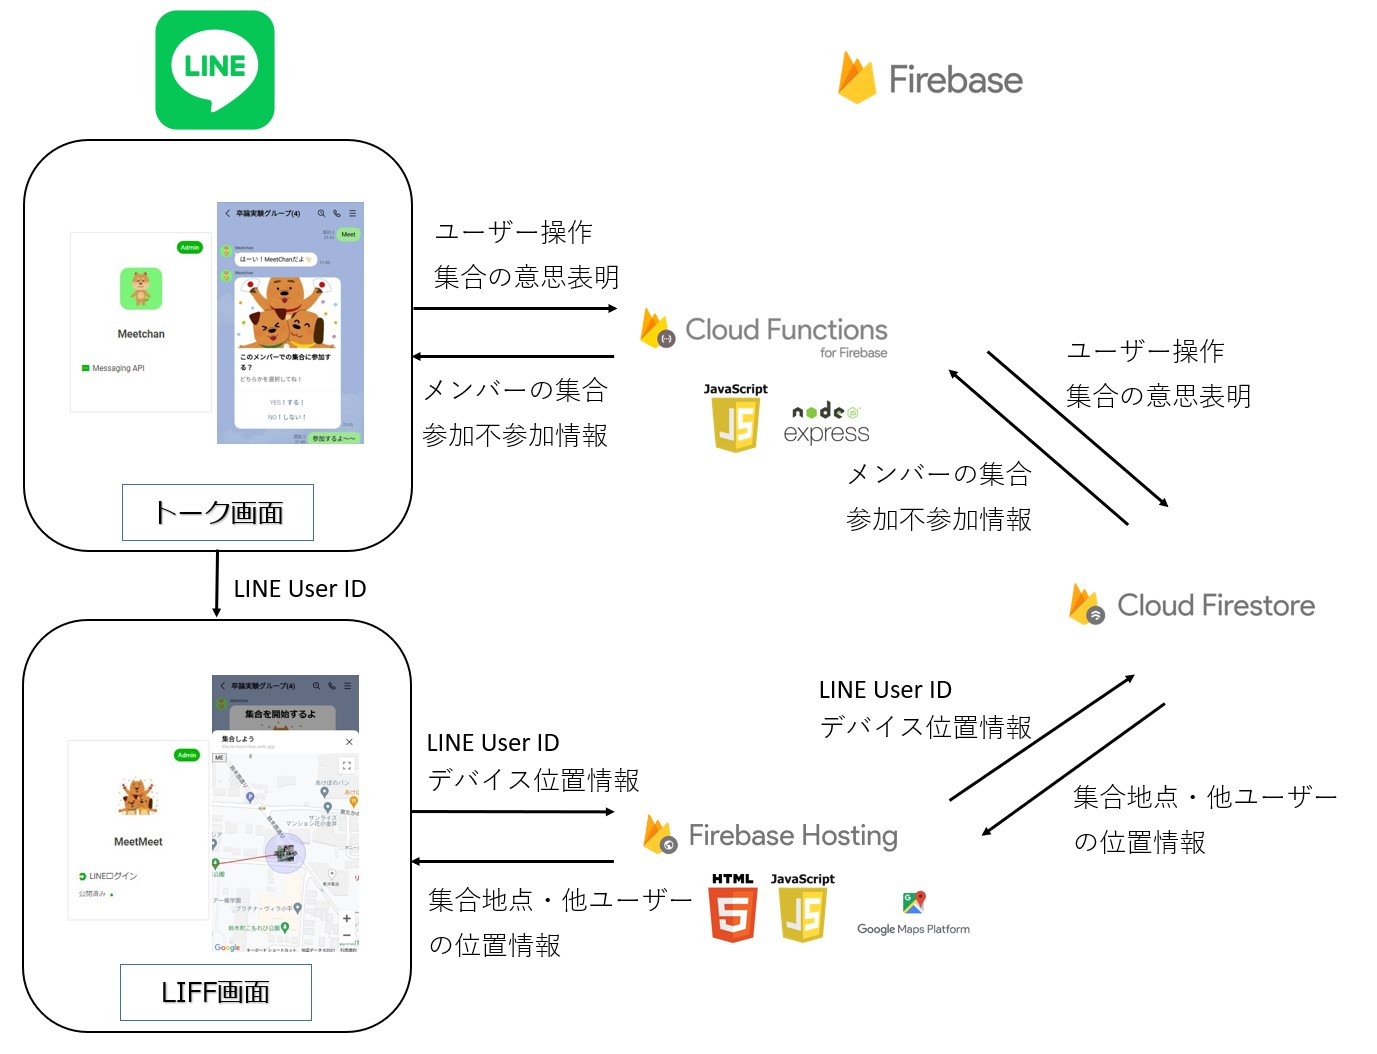
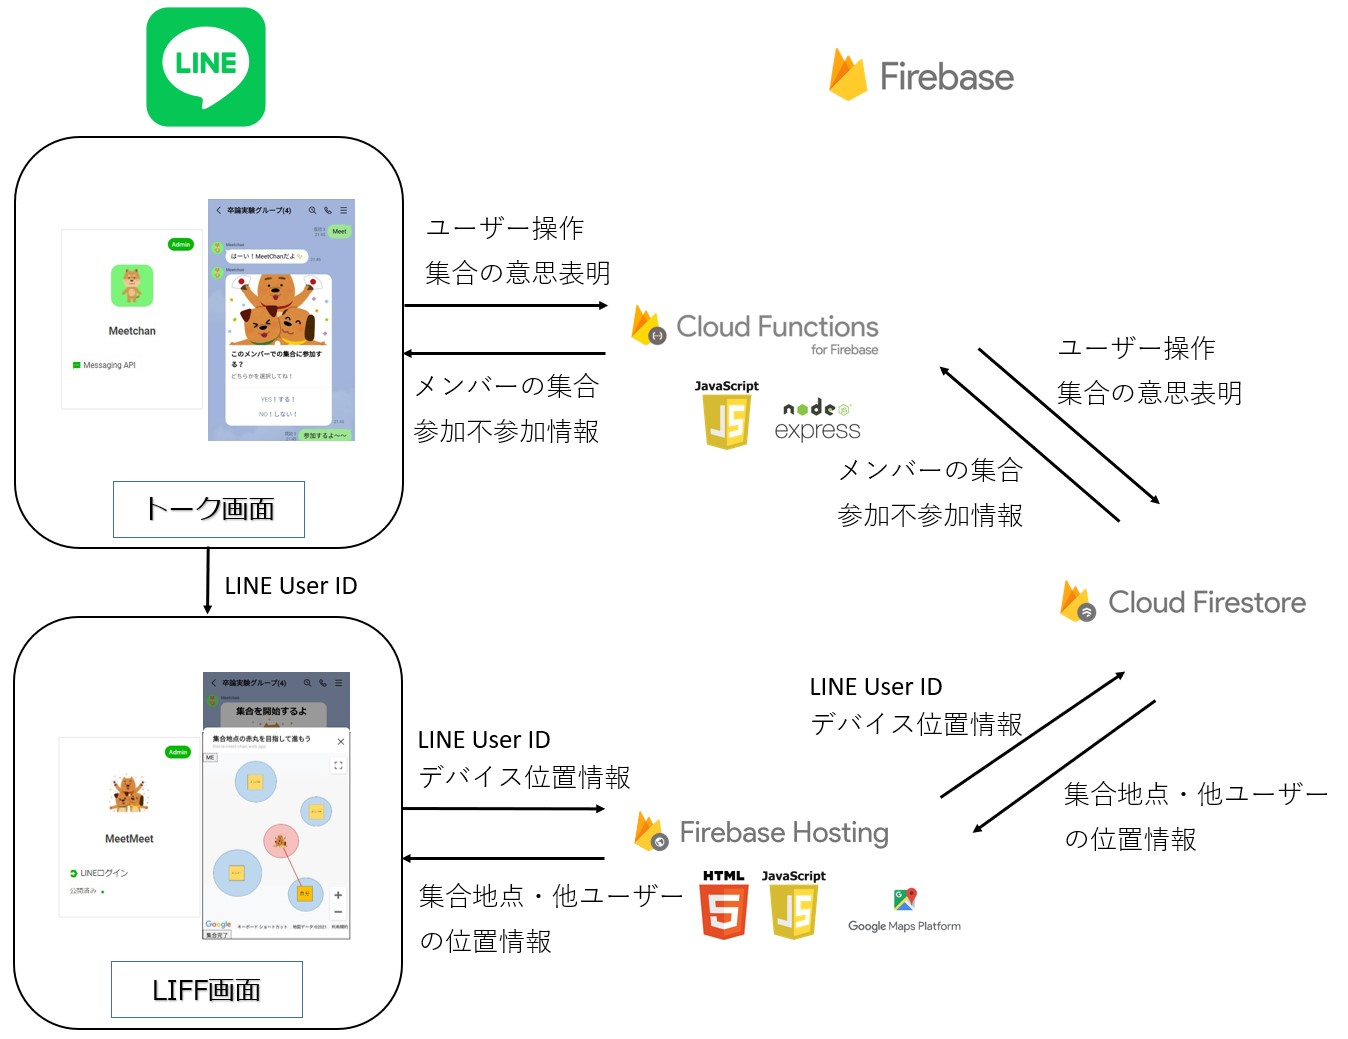
Ver1できた

diff --git a/index.html b/index.html
@@ -11,46 +11,84 @@
     </head>
     <body>
         <h1>MeetChan</h1>
-        <p>渡辺咲歩の卒論、MeetChanの操作説明</p>
+        <p>LINEアプリ『MeetChan』の操作説明</p>
 
         <h3>概要</h3>
         <p>このアプリは、徒歩圏内にいる複数人の屋外での集合をサポートするLINEアプリです。</p>
         <p>LINEのトーク画面で集合に参加するメンバーを決め、LINE上で動作するブラウザ"LIFF"上に表示されたGoogleMap画面を参考にしながら示された集合地点に向かうことで、"気が付いたら集合ができていた"という状態を目指します。</p>
 
+        <br>
         <h3>システム構成</h3>
-        <img src="./img/システム設計図_Ver1.jpg" alt="システム設計図" width="414" height="317">
+        <div class="image">
+            <img src="./img/システム設計図_ver1.jpg" alt="システム設計図" width="374" height="287">
+        </div>
 
+        <br>
+        <br>
         <h3>操作説明</h3>
         <h4>始める前に</h4>
         <p>このアプリは位置情報を使用します。LINEへの位置情報の共有を常時許可してください。</p>
-        <p>端末の設定から直接LINEへ許可するか、LINEの設定>プライバシー管理>情報の提供>位置情報の取得を許可 をオンにしてください。</p>
-        <p>※位置情報はMeetChan使用時のみ収集されます。</p>
+        <p>端末の設定から直接LINEへ許可するか、LINEアプリの設定>プライバシー管理>情報の提供>位置情報の取得を許可 をオンにしてください。</p>
+        <p class="caution">※位置情報はMeetChan使用時のみ収集されます。</p>
 
+        <br>
         <h4>集合開始方法</h4>
-        <p>集合が必要となったタイミングで、「Meet」とメッセージ送信してください。MeetChanが集合を開始します。</p>
-        <img src="./img/集合スタート.jpg" alt="集合開始" width="260" height="361"> 
+        <p>集合が必要となった時、「Meet」とメッセージ送信してください。MeetChanが集合を開始します。</p>
+        <div class="image">
+            <img src="./img/集合スタート.jpg" alt="集合開始" width="182" height="253"> 
+        </div>
         
+        <br>
+        <br>
         <h4>集合参加意思登録</h4>
         <p>[YES！する！]または[NO！しない！]を選択してください。</p>
         <p>・[YES！する！]を選択した場合、LIFFブラウザが開きデバイスの位置情報を取得後自動で閉じます。「参加するよ～～」とメッセージがトークに送信されます。</p>
-        <p>※アプリの初回利用時、LINEの認証画面と、位置情報取得確認アラートが表示されるので、どちらも許可してください。</p>
-        <img src="./img/MeetMeet認証画面v1.jpg" alt="MeetMeet認証画面" width="240" height="394">
-        <img src="./img/位置情報取得許可画面v1.jpg" alt="位置情報取得許可画面" width="225" height="421">
+        <p class="caution">※アプリの初回利用時、LINEの認証画面と、位置情報取得確認アラートが表示されるので、どちらも許可してください。</p>
+        <div class="image">
+            <img src="./img/MeetMeet認証画面v1.jpg" alt="MeetMeet認証画面" width="168" height="276">
+            <img src="./img/位置情報取得許可画面v1.jpg" alt="位置情報取得許可画面" width="158" height="295">
+        </div>
 
         <p>・[NO！しない！]を選択した場合、「今回は参加しないかな...」とメッセージがトークに送信されます。</p>
-        <p>※全員が参加意思登録を完了するまでは、選びなおしが可能です。</p>
+        <p>全員が参加意思登録を完了するまでは、選びなおしが可能です。</p>
 
+        <br>
         <h4>移動開始</h4>
         <p>全員の参加意思登録が完了すると、MeetChanが集合参加メンバーを伝えます。[ここをタップしてね]をタップするとGoogleMap画面が開きます。</p>
-        <img src="./img/集合を開始するよ.jpg" alt="集合を開始するよ" width="234" height="403">
+        <div class="image">
+            <img src="./img/集合を開始するよ.jpg" alt="集合を開始するよ" width="164" height="282">
+        </div>
 
+        <br>
+        <br>
         <h4>GoogleMap画面</h4>
-        <img src="./img/LIFF画面模式図v1.jpg" alt="LIFF画面模式図" width="250" height="355">
-        <p>集合参加メンバーのLINEアイコンと、集合地点のアイコンが表示されます。</p>
-        <p>メンバーが確実に存在する範囲を青色の円で表しています。現在地は青色の円の範囲内にあり、円が小さいほど、現在地の測位精度が高いことになります。</p>
+        <div class="image">
+            <img src="./img/LIFF画面模式図v1.jpg" alt="LIFF画面模式図" width="175" height="249">
+        </div>
+        <p>
+            集合参加メンバーのLINEアイコンと、集合地点のアイコンが表示されます。<br>
+            メンバーが確実に存在する範囲を青色の円で表しています。現在地は青色の円の範囲内にあり、円が小さいほど、現在地の測位精度が高いことになります。<br>
+            自分から集合地点まで赤い線が引かれているので、移動方向の参考にしてください。
+        </p>
         <p>左上の[ME]をタップすると、マップの中心に自分を移動させることができます。</p>
         <p>[+][-]をタップ、または、2本の指でのピンチ&ズームでマップの拡大率を変更できます。</p>
         <p>集合が完了したら、[集合完了]をタップしてください。LIFFブラウザが閉じられます。</p>
 
+        <br>
+        <h4>集合完了</h4>
+        <p>MeetChanからのメッセージが送られてきたら、集合完了です。</p>
+        <div class="image">
+            <img src="./img/集合完了メッセージ.jpg" alt="集合完了メッセージ" width="227" height="109">
+        </div>
+
+        <br>
+        <br>
+        <h3 class="please">最後に</h3>
+        <p class="please">このアプリは卒業論文の一部として制作しています。<br>『MeetChan』に関する評価アンケートフォームが集合完了時にトークに送信されますので、ぜひご回答ください。回答は匿名となっており、数分で回答ができます。よろしくお願いいたします。</p>
+        <br><br>
+
+        <footer>
+            <p class="footer-text">栗原研究室　渡辺咲歩</p>
+        </footer>
     </body>
 </html>

diff --git a/css/styles.css b/css/styles.css
@@ -3,3 +3,35 @@ h1 {
     padding-left: 16px;
     border-left: 8px solid pink;
 }
+
+h4 {
+    margin-bottom: 0%;
+}
+
+.caution {
+    font-size: 14px;
+    color: indianred;
+}
+
+.please {
+    color: indianred;
+}
+
+.image {
+    text-align: center;
+    /* display: block; */
+    /* margin-left: auto; */
+    /* margin-right: auto; */
+}
+
+footer {
+    width: 100%;
+    height: 30px;
+    text-align: center;
+    padding: 20px 0;
+    background-color: pink;
+}
+
+.footer-text {
+    color: white;
+}
